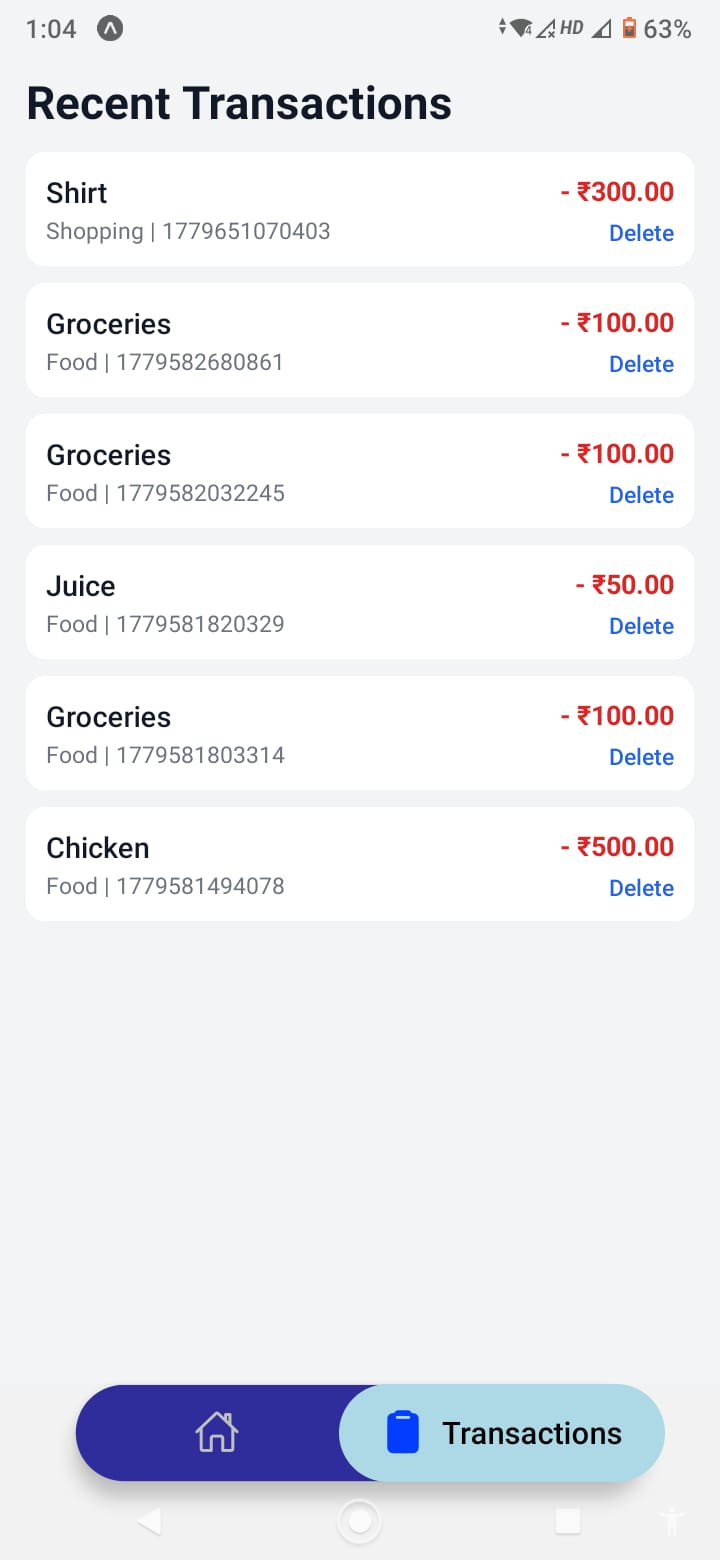
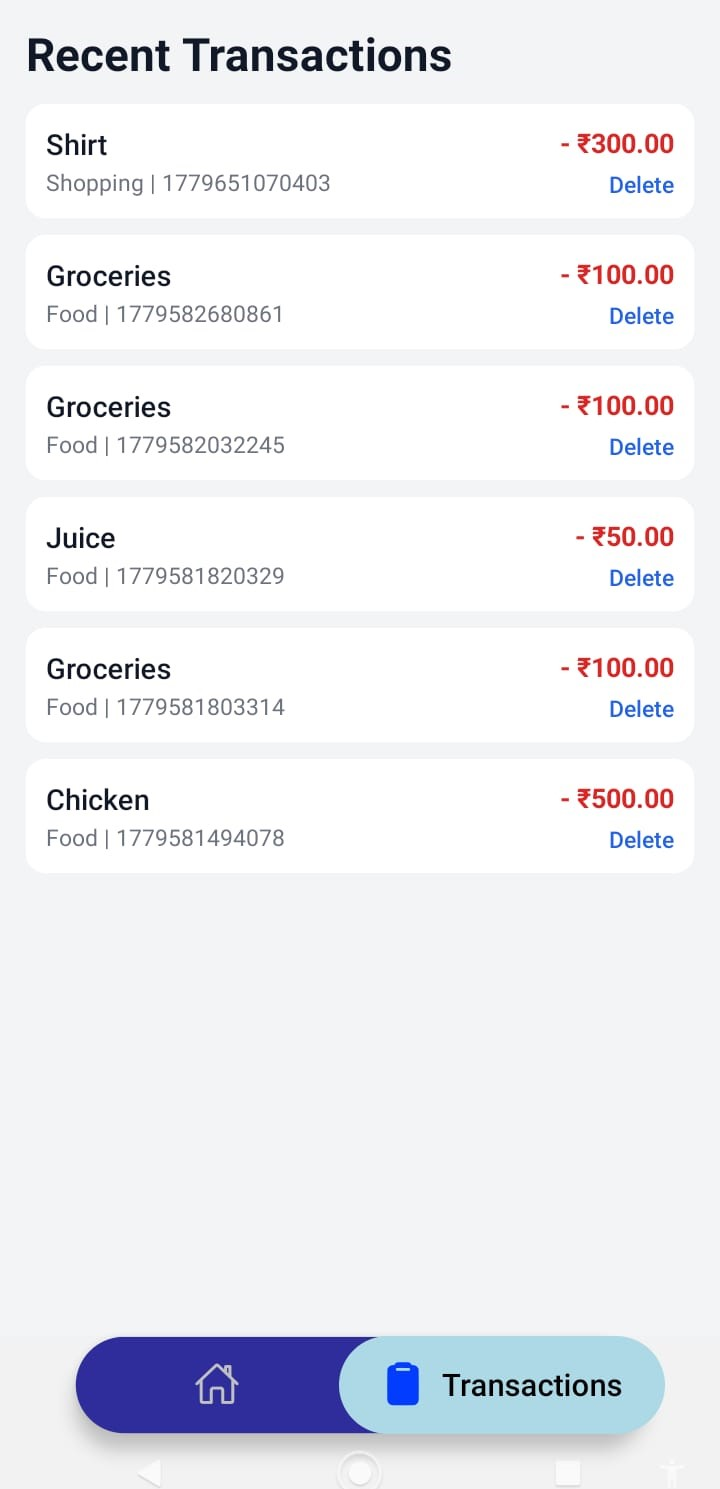
Screenshots added

diff --git a/readme.md b/readme.md
@@ -55,8 +55,8 @@ A modern offline-first personal finance and expense tracking mobile application 
 
 # Screenshots
 
-![Home Screen](./assets/screenshots/home.jpeg)
-![Transaction Screen](./assets/screenshots/transactions.jpeg)
+<img src="./assets/screenshots/home.png" width="250" />
+<img src="./assets/screenshots/transactions.png" width="250" />
 
 ---
 